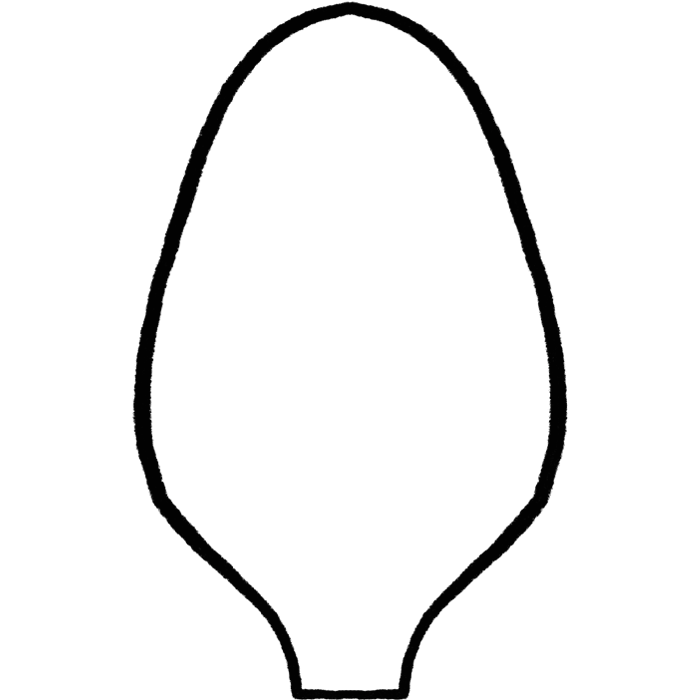
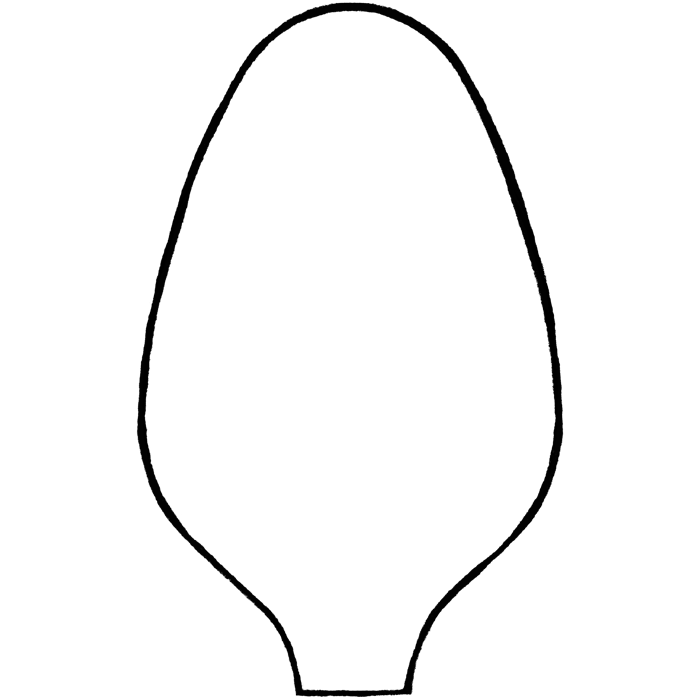
added and fixed images

Changed region(s): [[0.18, 0.0, 0.81, 1.0]]

diff --git a/pratolina.html b/pratolina.html
@@ -29,7 +29,7 @@
  </ul>
 <!---------------------------------------------------------------- S P E C I E -----------------------------------------------------------> 
 <main>
-<img class="prima" src="immagini/acetosellascheda2.png">  
+<img class="prima" src="immagini/pratolinascheda2.png">  
 <div class="titolo">
 <div class="specie">
   <h2 class="nome">PRATOLINA</h2>
